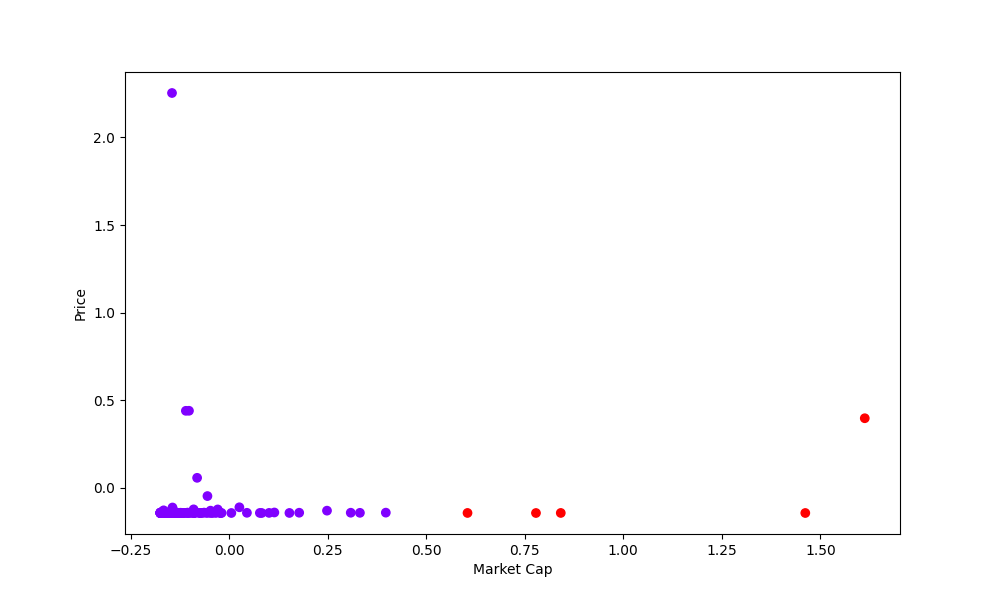
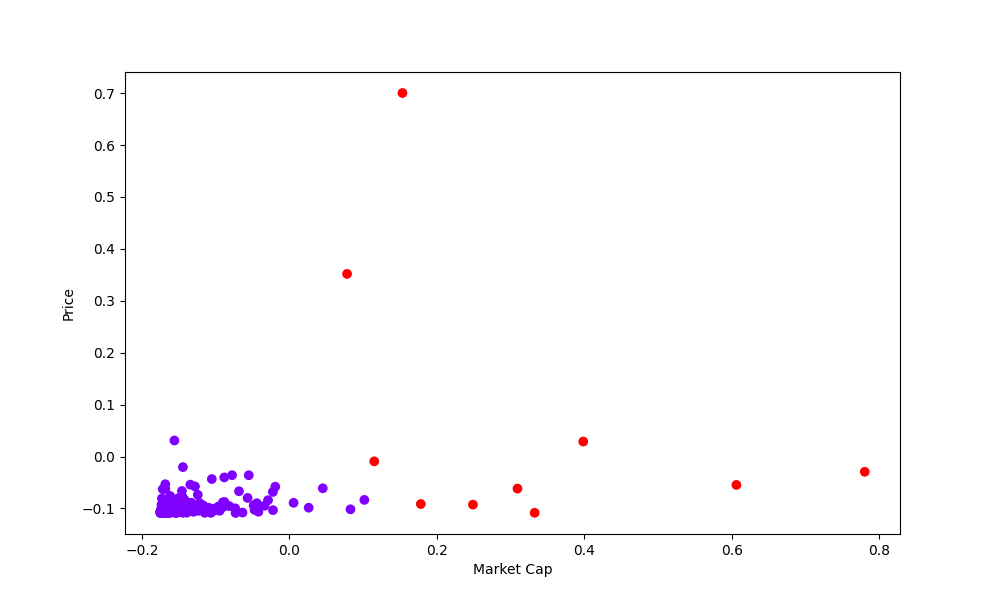
second clustering trying

diff --git a/data.py b/data.py
@@ -1,6 +1,7 @@
 import pandas as pd
 import numpy as np
 from sklearn.cluster import KMeans
+from sklearn.preprocessing import StandardScaler
 import matplotlib.pyplot as plt
 import seaborn as sns
 import PIL
@@ -32,20 +33,20 @@ data = data[data['Volume(24h)'] != '?']
 # convert data to numeric
 data = data.apply(pd.to_numeric, errors='ignore')
 
-# standardize the data using z-score
-data['Market Cap'] = (data['Market Cap'] - data['Market Cap'].mean()) / data['Market Cap'].std()
-data['Volume(24h)'] = (data['Volume(24h)'] - data['Volume(24h)'].mean()) / data['Volume(24h)'].std()
-data['Price'] = (data['Price'] - data['Price'].mean()) / data['Price'].std()
-data['% 1h'] = (data['% 1h'] - data['% 1h'].mean()) / data['% 1h'].std()
-data['% 24h'] = (data['% 24h'] - data['% 24h'].mean()) / data['% 24h'].std()
-data['% 7d'] = (data['% 7d'] - data['% 7d'].mean()) / data['% 7d'].std()
+# standardize the data using standard scaler
+scaler = StandardScaler()
+scaler.fit(data.drop(['Rank', 'Name', 'Platform', 'Circulating Supply', '% 1h', '% 24h', '% 7d'], axis=1))
+scaled_features = scaler.transform(data. drop(['Rank', 'Name', 'Platform', 'Circulating Supply', '% 1h', '% 24h', '% 7d'], axis=1))
+
+# create a new dataframe with the scaled features   
+data = pd.DataFrame(scaled_features, columns=['Market Cap', 'Volume(24h)', 'Price'])
 
 # remove outliers
-data = data[(np.abs(data['Market Cap']) < 3) & (np.abs(data['Volume(24h)']) < 3) & (np.abs(data['Price']) < 3) & (np.abs(data['% 1h']) < 3) & (np.abs(data['% 24h']) < 3) & (np.abs(data['% 7d']) < 3)]
+data = data[(np.abs(data['Market Cap']) < 1) & (np.abs(data['Volume(24h)']) < 1) & (np.abs(data['Price']) < 1)]
 
 # cluster the data using k-means clustering
 kmeans = KMeans(n_clusters=2)
-kmeans.fit(data.drop(['Rank', 'Name', 'Platform', 'Circulating Supply', '% 1h', '% 24h', '% 7d'], axis=1))
+kmeans.fit(data)
 
 # create a new column for the cluster
 data['Cluster'] = kmeans.labels_ 
